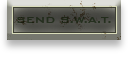
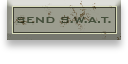
Updated graphics.  Now we have a real splash screen.

Changed region(s): [[0.0938, 0.125, 0.9062, 0.5]]

diff --git a/wiretap.py b/wiretap.py
@@ -536,6 +536,7 @@ class Layout(object):
 
     size = (1024, 768)
 
+    splash_src = "graphics/Starting_screen.png"
     background_src = "graphics/Background.png"
 
     grid_pos = (20, 20)
@@ -598,17 +599,13 @@ class Layout(object):
     restart_color = game_state_color
     restart_text = 'Press R to play again'
 
-    splash_pos = game_over_pos
-    splash_color = game_state_color
-    splash_text = 'Click anywhere to start'
-
     level_pos = 512, 160
     level_color = (20, 200, 20)
     level_shadow = (0, 0, 0)
 
     cursor_normal_src = "graphics/Cursor.png"
     cursor_normal_hotspot = (9, 2)
-    cursor_button_src = "graphics/Cursor_hot.png"
+    cursor_button_src = "graphics/Cursor_on_button.png"
     cursor_button_hotspot = (9, 2)
 
     font_src = 'fonts/GenR102.ttf'
@@ -634,6 +631,7 @@ class Layout(object):
 
     def __init__(self):
         self.sceeen = None
+        self.splash = pygame.image.load(self.splash_src)
         self.background = pygame.image.load(self.background_src)
         self.speaking_inactive = pygame.image.load(self.speaking_inactive_src)
         self.speaking_active = pygame.image.load(self.speaking_active_src)
@@ -685,6 +683,14 @@ class Layout(object):
         screen = self.screen
         if self.mode != self.size:
             screen.fill((0, 0, 0))
+
+        if game.splash:
+            screen.blit(self.splash, (self.x, self.y))
+            if self.use_custom_cursor:
+                self.last_mouse_pos = pygame.mouse.get_pos()
+                self.draw_cursor()
+            return
+
         screen.blit(self.background, (self.x, self.y))
         for n, c in enumerate(game.consoles):
             if c.disabled:
@@ -717,12 +723,9 @@ class Layout(object):
                 img = self.swat_inactive
             self.center_img(img, pos, self.swat_pos)
 
-        if not game.paused or game.quitting or game.splash:
+        if not game.paused or game.quitting:
             self.center_img(self.coffee_break_off, self.pos,
                             self.coffee_break_pos)
-
-        if game.splash:
-            self.center_img(self.quit_off, self.pos, self.quit_pos)
 
         self.score_text(game.bad_guys_caught, self.bad_guys_color,
                         self.pos, self.bad_guys_pos)
@@ -741,10 +744,6 @@ class Layout(object):
         if not game.running:
             self.fadeout((0, 0), self.size)
 
-        if game.splash:
-            self.center_text(self.splash_text, self.splash_color,
-                             self.pos, self.splash_pos)
-
         if game.over:
             self.center_text(self.game_over_text, self.game_over_color,
                              self.pos, self.game_over_pos)
@@ -762,11 +761,10 @@ class Layout(object):
         if game.quitting:
             self.center_text(self.bye_text, self.bye_color, self.pos, self.bye_pos)
             self.center_img(self.quit_on, self.pos, self.quit_pos)
-        elif not game.splash:
+        else:
             self.center_img(self.quit_off, self.pos, self.quit_pos)
 
         if self.use_custom_cursor:
-            pygame.mouse.set_visible(False)
             self.last_mouse_pos = pygame.mouse.get_pos()
             self.draw_cursor()
 
